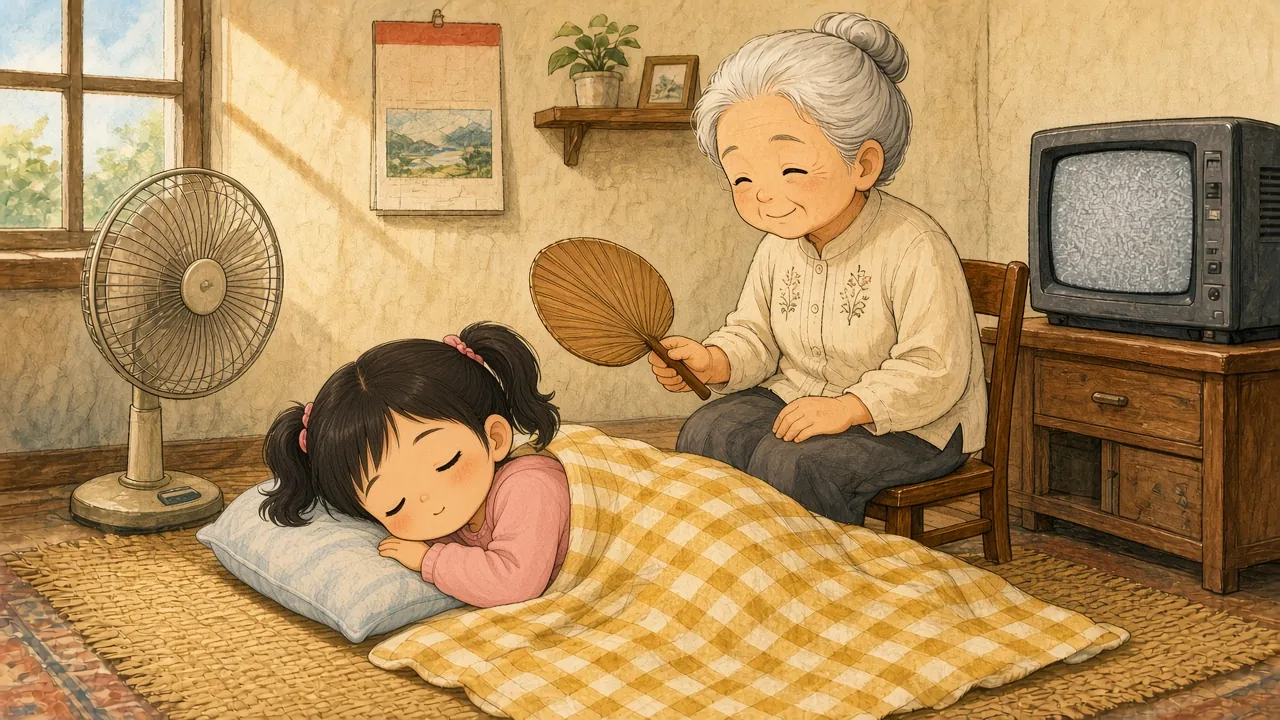
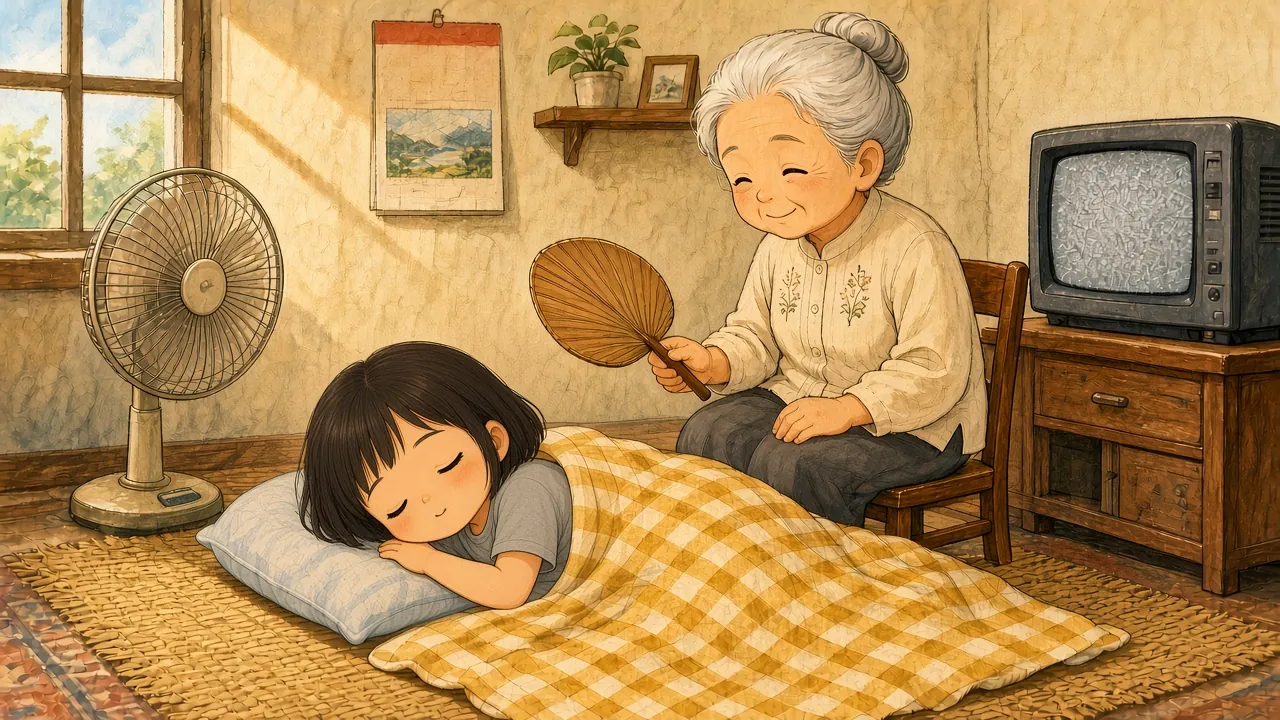
Girl bob/grey-tee redraws (home, bag, draw, rest) + new 1996 home art with TV on the left; recomposite rest1988-girl and 1996 countdown, update anchors and Art Bible

diff --git a/src/game/sceneAnchors.ts b/src/game/sceneAnchors.ts
@@ -23,8 +23,8 @@ export const SCENE_ANCHORS: Record<string, SceneAnchors> = {
   draw: { child: a(0.5, 0.37, 0.13) },
   ending: { child: a(0.3, 0.47, 0.05) },
   estate: { 阿傑: a(0.61, 0.25, 0.09), child: a(0.41, 0.33, 0.09) },
-  home1996: { child: a(0.57, 0.13, 0.09) },
-  home: { 爸爸: a(0.29, 0.33, 0.09), 媽媽: a(0.71, 0.35, 0.09), child: a(0.53, 0.47, 0.07) },
+  home1996: { child: a(0.53, 0.09, 0.08) },
+  home: { 爸爸: a(0.29, 0.33, 0.09), 媽媽: a(0.71, 0.35, 0.09), child: a(0.5, 0.48, 0.07) },
   inside: { 阿傑: a(0.6, 0.3, 0.1), 老師: a(0.74, 0.18, 0.06), child: a(0.4, 0.38, 0.1) },
   kindy: {
     媽媽: a(0.3, 0.17, 0.09),

diff --git a/scripts/tv-composite.py b/scripts/tv-composite.py
@@ -7,10 +7,10 @@ into the glass, and the original glass highlight is screened back over it.
 Measured glass quads (1280x720 sources, boy = girl):
   tv   1018,314,1100,310,1100,444,1018,434   (1986 -> tv1986-*.webp, picture centred at 0.52)
   bag  1069,171,1171,173,1170,313,1071,306
-  rest 1051,153,1191,150,1191,289,1051,285
+  rest 1052,154,1191,151,1192,291,1052,293   (rest-girl redraw; boy same spot)
   draw 860,82,1049,82,1049,220,860,218
   play 633,155,776,151,774,255,635,257
-  home1996 933,321,1103,319,1103,490,933,478   (new 1996 home art; replaces its painted newsreader)
+  home1996 363,219,518,219,520,337,362,337   (redrawn 1996 home, TV on the LEFT; boy+girl same spot; picture = countdown with digits painted out)
 Made with: tv1984/tv1985/tvoff on the tv quad grown 1.5px (1016.5,312.5,1101.5,308.5,1101.5,445.5,1016.5,435.5) so no lit rim shows; tv1984/tv1985 HL=0.2 cx 0.5; tvoff = a dark glass gradient with a soft diagonal reflection,
 HL=0.12 BLUR=0.5; rest1988 HL=0 cx 0.42; home1996 HL=0 cx 0.48 (countdown board digits painted out first).
 """

diff --git a/docs/ART_BIBLE.md b/docs/ART_BIBLE.md
@@ -76,8 +76,8 @@ V2.1：玩家決定**以現有 Q 版圖為準**。下面的頭身比、線、眼
 四歲主角，男女同一張臉、同一種膚色（暖米褐）、同一雙眼睛。
 - 男孩：耳上的黑色短髮，有點亂。芥末黃（土黃）圓領 T 恤，深灰短褲，白襪，灰色魔術貼涼鞋。不要畫成鮮黃。
 - 女孩（定案標準，2026-10-09 用家確認）：剛過耳的黑色冬菇頭（bob，齊瀏海）＋灰色 T 恤，深灰短褲，白襪，灰色涼鞋。跟頭像 `public/art/portrait/girl-*.webp` 一致。不要畫成淺藍衫，不要紮辮，不要粉紅上衣。每個年紀（三歲到十五歲、十年後）都保留冬菇頭。
-  - 仍然是孖辮／粉紅衫、要重畫的舊圖：`home-girl`、`bag-girl`、`draw-girl`、`rest-girl`（及合成的 `rest1988-girl`）、`home1996-girl`。重畫後要重新跑 `scripts/tv-composite.py`。
-- 1984 冬天飯桌可以穿長袖（男紅、女粉紅），但女孩頭髮仍是冬菇頭；其他場景用上面的衣服。
+  - 已全部按此標準重畫（2026-10）：`home-girl`、`bag-girl`、`draw-girl`、`rest-girl`（及合成的 `rest1988-girl`）、`home1996-girl`。1996 新屋企圖（男女）電視改在左邊，`scripts/tv-composite.py` 已用新螢幕四角重新合成倒數畫面（數字已塗走）。女孩版晚飯圖 `home-girl` 的媽媽穿粉紅上衣，與綠色基準不同，列作已知差異。
+- 1984 冬天飯桌：男孩可穿紅色長袖；女孩新圖是灰 T 恤＋冬菇頭；其他場景用上面的衣服。
 - 1988（七歲，小學）：同一張臉，略大。白色短袖校服恤衫；女孩是白恤衫配藍色背心裙或裙。同班同學穿同一套校服。
 - 十年後（結局 `ending-boy/girl.webp`）：同一個屋邨平台，主角是背書包的青年（白恤衫、深灰長褲），獨自站著看大廈；女孩仍是冬菇頭。
 
